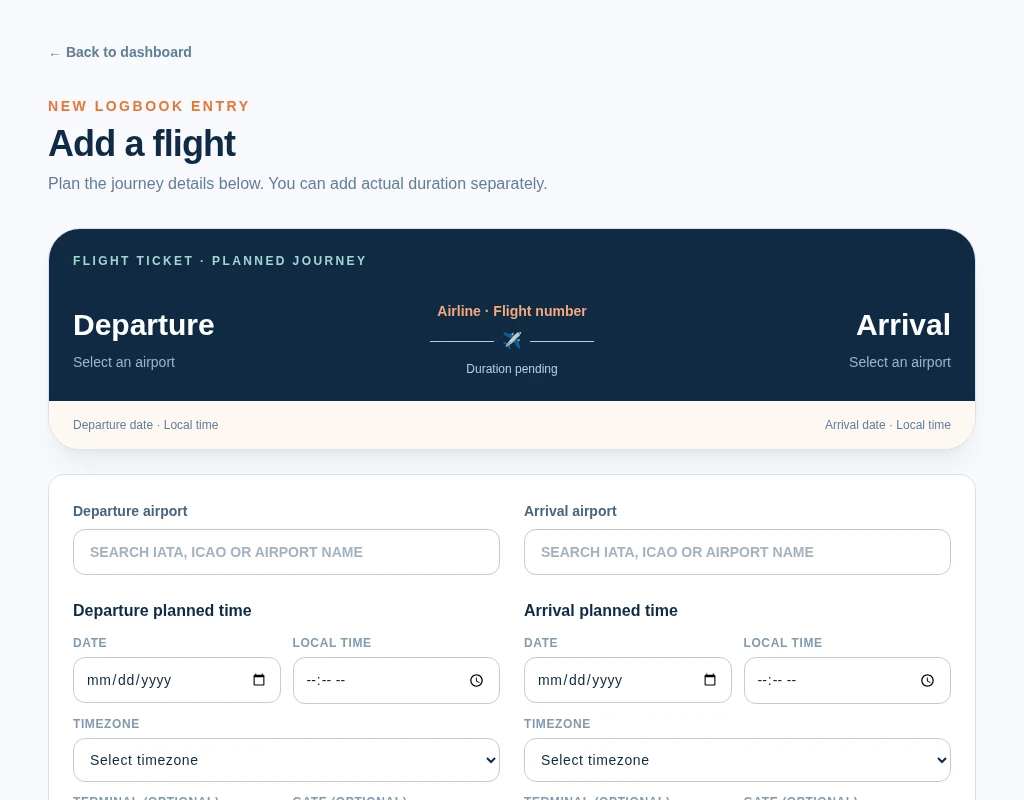
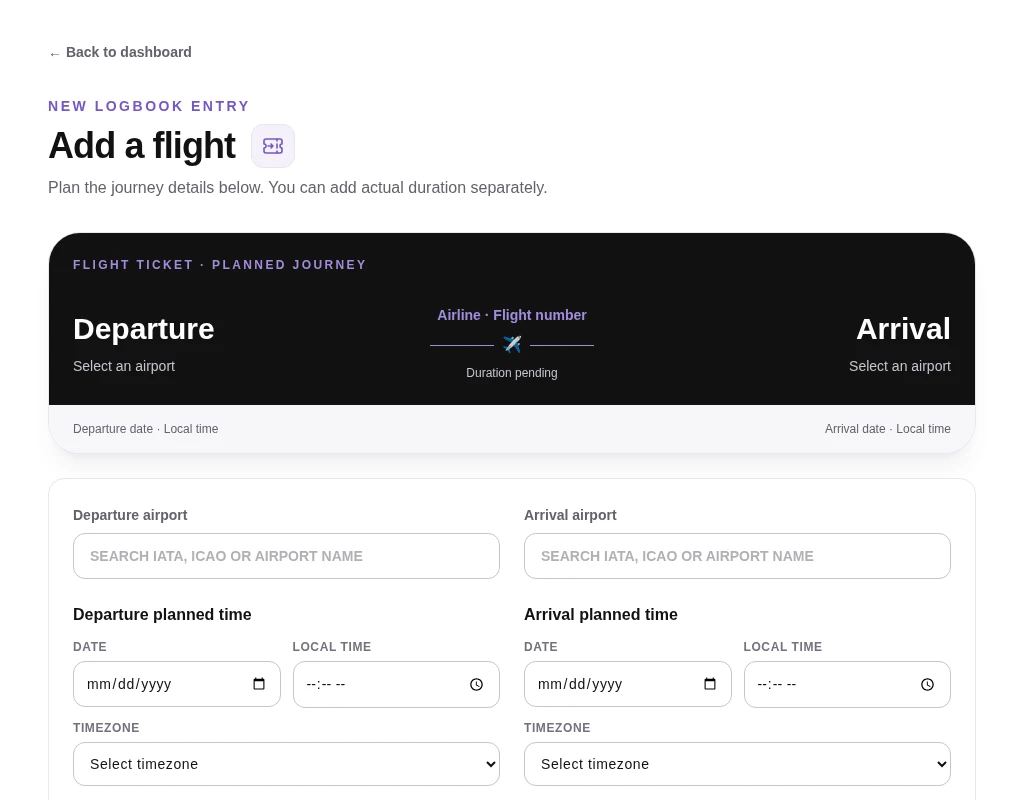
Polish landing spacing and align flight form with purple theme

diff --git a/components/flight-form.tsx b/components/flight-form.tsx
@@ -20,11 +20,11 @@ export function FlightForm({ initialData }: { initialData?: FlightInitialData })
   const chooseAirport = (side: Side, airport: Airport) => setSide(side, { airport: airport.iata, timezone: airport.timezone });
   const getOptions = (value: string) => searchAirports(value).slice(0, 6);
   async function submit(event: React.FormEvent) { event.preventDefault(); setError(""); if (!selectedDeparture || !selectedArrival) { setError("Choose a departure and arrival airport from the verified list."); return; } const depUtc = getScheduledFlightTime(departure.date, departure.time, departure.timezone); const arrUtc = getScheduledFlightTime(arrival.date, arrival.time, arrival.timezone); if (duration.error || !depUtc.iso || !arrUtc.iso) { setError(duration.error ?? "Check the planned date and time values."); return; } setSaving(true); const input = { departureAirportIata: selectedDeparture.iata, departureAirportIcao: selectedDeparture.icao, departureAirportName: selectedDeparture.name, departureCountryCode: selectedDeparture.countryCode, departureDate: departure.date, departureTime: departure.time, departureTimezone: departure.timezone, departureTerminal: departure.terminal, departureGate: departure.gate, departureUtc: depUtc.iso, arrivalAirportIata: selectedArrival.iata, arrivalAirportIcao: selectedArrival.icao, arrivalAirportName: selectedArrival.name, arrivalCountryCode: selectedArrival.countryCode, arrivalDate: arrival.date, arrivalTime: arrival.time, arrivalTimezone: arrival.timezone, arrivalTerminal: arrival.terminal, arrivalGate: arrival.gate, arrivalUtc: arrUtc.iso, airline, flightNumber, aircraftType, registration, notes, scheduledDurationMinutes: duration.minutes, actualDurationMinutes: actualHours || actualMinutes ? Number(actualHours || 0) * 60 + Number(actualMinutes || 0) : null }; const result = initialData?.id ? await updateFlight(initialData.id, input) : await createFlight(input); setSaving(false); if (result?.error) setError(result.error); }
-  return <form onSubmit={submit} className="space-y-6"><TicketPreview departure={selectedDeparture} arrival={selectedArrival} departureState={departure} arrivalState={arrival} airline={airline} flightNumber={flightNumber} duration={duration.minutes} /><section className="rounded-2xl border border-[#d9e2ec] bg-white p-6"><div className="grid gap-6 md:grid-cols-2"><AirportField label="Departure airport" value={departure.airport} options={getOptions(departure.airport)} onChange={(value) => setSide("departure", { airport: value })} onSelect={(airport) => chooseAirport("departure", airport)} selected={selectedDeparture} /><AirportField label="Arrival airport" value={arrival.airport} options={getOptions(arrival.airport)} onChange={(value) => setSide("arrival", { airport: value })} onSelect={(airport) => chooseAirport("arrival", airport)} selected={selectedArrival} /></div><div className="mt-6 grid gap-6 md:grid-cols-2"><TimeFields label="Departure" state={departure} onChange={(patch) => setSide("departure", patch)} /><TimeFields label="Arrival" state={arrival} onChange={(patch) => setSide("arrival", patch)} /></div></section><section className="rounded-2xl border border-[#d9e2ec] bg-white p-6"><h2 className="text-xl font-bold text-[#102a43]">Flight details</h2><div className="mt-5 grid gap-5 sm:grid-cols-2"><Field label="Airline" value={airline} onChange={setAirline} placeholder="e.g. Air China" /><Field label="Flight number" value={flightNumber} onChange={setFlightNumber} placeholder="e.g. CA1234" /><Field label="Aircraft type (optional)" value={aircraftType} onChange={setAircraftType} placeholder="e.g. Boeing 737-800" /><Field label="Registration (optional)" value={registration} onChange={setRegistration} placeholder="e.g. B-2087" /></div><div className="mt-6 grid gap-5 sm:grid-cols-2"><div><label className="text-sm font-semibold text-[#486581]">Scheduled duration</label><div className="mt-1.5 rounded-xl bg-[#f7f9fc] px-4 py-3 text-[#102a43]">{duration.minutes == null ? "Calculated after times are valid" : `${Math.floor(duration.minutes / 60)}h ${duration.minutes % 60}m`}</div></div><div><label className="text-sm font-semibold text-[#486581]">Actual duration <span className="font-normal text-[#829ab1]">(optional)</span></label><div className="mt-1.5 flex gap-2"><input type="number" min="0" max="99" value={actualHours} onChange={(e) => setActualHours(e.target.value)} className="w-full rounded-xl border border-[#bcccdc] px-3 py-3" placeholder="Hours" /><input type="number" min="0" max="59" value={actualMinutes} onChange={(e) => setActualMinutes(e.target.value)} className="w-full rounded-xl border border-[#bcccdc] px-3 py-3" placeholder="Minutes" /></div></div></div><label className="mt-5 block text-sm font-semibold text-[#486581]">Notes<textarea value={notes} onChange={(e) => setNotes(e.target.value)} rows={4} className="mt-1.5 w-full rounded-xl border border-[#bcccdc] px-4 py-3 font-normal outline-none focus:border-[#168c82]" placeholder="Anything you want to remember…" /></label></section>{error && <p className="rounded-xl bg-[#fff0ed] p-4 text-sm text-[#b94a3d]">{error}</p>}<div className="flex justify-end"><button disabled={saving} className="rounded-full bg-[#e8753a] px-7 py-3.5 font-bold text-white shadow-lg shadow-orange-100 disabled:opacity-60">{saving ? "Saving flight…" : initialData?.id ? "Save changes →" : "Save flight →"}</button></div></form>;
+  return <form onSubmit={submit} className="space-y-6"><TicketPreview departure={selectedDeparture} arrival={selectedArrival} departureState={departure} arrivalState={arrival} airline={airline} flightNumber={flightNumber} duration={duration.minutes} /><section className="rounded-2xl border border-line bg-surface p-6"><div className="grid gap-6 md:grid-cols-2"><AirportField label="Departure airport" value={departure.airport} options={getOptions(departure.airport)} onChange={(value) => setSide("departure", { airport: value })} onSelect={(airport) => chooseAirport("departure", airport)} selected={selectedDeparture} /><AirportField label="Arrival airport" value={arrival.airport} options={getOptions(arrival.airport)} onChange={(value) => setSide("arrival", { airport: value })} onSelect={(airport) => chooseAirport("arrival", airport)} selected={selectedArrival} /></div><div className="mt-6 grid gap-6 md:grid-cols-2"><TimeFields label="Departure" state={departure} onChange={(patch) => setSide("departure", patch)} /><TimeFields label="Arrival" state={arrival} onChange={(patch) => setSide("arrival", patch)} /></div></section><section className="rounded-2xl border border-line bg-surface p-6"><h2 className="text-xl font-bold text-ink">Flight details</h2><div className="mt-5 grid gap-5 sm:grid-cols-2"><Field label="Airline" value={airline} onChange={setAirline} placeholder="e.g. Air China" /><Field label="Flight number" value={flightNumber} onChange={setFlightNumber} placeholder="e.g. CA1234" /><Field label="Aircraft type (optional)" value={aircraftType} onChange={setAircraftType} placeholder="e.g. Boeing 737-800" /><Field label="Registration (optional)" value={registration} onChange={setRegistration} placeholder="e.g. B-2087" /></div><div className="mt-6 grid gap-5 sm:grid-cols-2"><div><label className="text-sm font-semibold text-muted">Scheduled duration</label><div className="mt-1.5 rounded-xl bg-page px-4 py-3 text-ink">{duration.minutes == null ? "Calculated after times are valid" : `${Math.floor(duration.minutes / 60)}h ${duration.minutes % 60}m`}</div></div><div><label className="text-sm font-semibold text-muted">Actual duration <span className="font-normal text-subtle">(optional)</span></label><div className="mt-1.5 flex gap-2"><input type="number" min="0" max="99" value={actualHours} onChange={(e) => setActualHours(e.target.value)} className="min-w-0 w-full rounded-xl border border-line-strong bg-surface px-3 py-3 outline-none focus:border-brand focus:ring-2 focus:ring-brand/15" placeholder="Hours" /><input type="number" min="0" max="59" value={actualMinutes} onChange={(e) => setActualMinutes(e.target.value)} className="min-w-0 w-full rounded-xl border border-line-strong bg-surface px-3 py-3 outline-none focus:border-brand focus:ring-2 focus:ring-brand/15" placeholder="Minutes" /></div></div></div><label className="mt-5 block text-sm font-semibold text-muted">Notes<textarea value={notes} onChange={(e) => setNotes(e.target.value)} rows={4} className="mt-1.5 w-full rounded-xl border border-line-strong px-4 py-3 font-normal outline-none focus:border-brand focus:ring-2 focus:ring-brand/15" placeholder="Anything you want to remember…" /></label></section>{error && <p className="rounded-xl bg-danger-bg p-4 text-sm text-danger-fg">{error}</p>}<div className="flex justify-end"><button disabled={saving} className="rounded-full bg-brand px-7 py-3.5 font-bold text-on-brand shadow-lg shadow-brand/10 transition hover:bg-brand-hover focus-visible:outline-2 focus-visible:outline-offset-4 focus-visible:outline-brand disabled:cursor-wait disabled:opacity-60">{saving ? "Saving flight…" : initialData?.id ? "Save changes →" : "Save flight →"}</button></div></form>;
 }
 
-function AirportField({ label, value, options, selected, onChange, onSelect }: { label: string; value: string; options: Airport[]; selected?: Airport; onChange: (value: string) => void; onSelect: (airport: Airport) => void }) { return <div className="relative"><label className="text-sm font-semibold text-[#486581]">{label}<input required value={value} onChange={(e) => onChange(e.target.value.toUpperCase())} className="mt-1.5 w-full rounded-xl border border-[#bcccdc] px-4 py-3 uppercase outline-none focus:border-[#168c82]" placeholder="Search IATA, ICAO or airport name" />{value && !selected && <div className="absolute left-0 right-0 top-[74px] z-10 rounded-xl border border-[#d9e2ec] bg-white p-1 shadow-xl">{options.map((airport) => <button type="button" key={airport.iata} onClick={() => onSelect(airport)} className="block w-full rounded-lg px-3 py-2 text-left text-sm hover:bg-[#f7f9fc]"><CountryFlag code={airport.countryCode} /> {airport.iata} · {airport.name}</button>)}</div>}</label>{selected && <p className="mt-2 text-xs text-[#627d98]"><CountryFlag code={selected.countryCode} /> {selected.name} · {selected.iata} · {selected.icao} · {selected.timezone}</p>}</div>; }
-function TimeFields({ label, state, onChange }: { label: string; state: FormState; onChange: (patch: Partial<FormState>) => void }) { return <div><h3 className="font-bold text-[#102a43]">{label} planned time</h3><div className="mt-3 grid grid-cols-2 gap-3"><Field label="Date" value={state.date} onChange={(value) => onChange({ date: value })} type="date" /><Field label="Local time" value={state.time} onChange={(value) => onChange({ time: value })} type="time" /></div><label className="mt-3 block text-xs font-bold uppercase tracking-wider text-[#829ab1]">Timezone<select required value={state.timezone} onChange={(e) => onChange({ timezone: e.target.value })} className="mt-1.5 w-full rounded-xl border border-[#bcccdc] bg-white px-3 py-3 text-sm font-normal text-[#102a43]"><option value="">Select timezone</option>{["Asia/Shanghai", "Asia/Tokyo", "Europe/London", "Europe/Paris", "America/New_York", "America/Los_Angeles"].map((zone) => <option key={zone}>{zone}</option>)}</select></label><div className="mt-3 grid grid-cols-2 gap-3"><Field label="Terminal (optional)" value={state.terminal} onChange={(value) => onChange({ terminal: value })} /><Field label="Gate (optional)" value={state.gate} onChange={(value) => onChange({ gate: value })} /></div></div>; }
-function Field({ label, value, onChange, type = "text", placeholder }: { label: string; value: string; onChange: (value: string) => void; type?: string; placeholder?: string }) { return <label className="block text-xs font-bold uppercase tracking-wider text-[#829ab1]">{label}<input type={type} value={value} onChange={(e) => onChange(e.target.value)} placeholder={placeholder} className="mt-1.5 w-full rounded-xl border border-[#bcccdc] px-3 py-3 text-sm font-normal text-[#102a43] outline-none focus:border-[#168c82]" /></label>; }
-function TicketPreview({ departure, arrival, departureState, arrivalState, airline, flightNumber, duration }: { departure?: Airport; arrival?: Airport; departureState: FormState; arrivalState: FormState; airline: string; flightNumber: string; duration: number | null }) { return <section className="overflow-hidden rounded-[2rem] border border-[#d9e2ec] bg-white shadow-xl shadow-[#102a43]/5"><div className="bg-[#102a43] p-6 text-white"><p className="text-xs font-bold uppercase tracking-[0.2em] text-[#9fd8d2]">Flight ticket · planned journey</p><div className="mt-8 grid items-center gap-5 md:grid-cols-[1fr_auto_1fr]"><AirportBlock airport={departure} fallback="Departure" /><div className="text-center"><p className="text-sm font-semibold text-[#f8a779]">{airline || "Airline"} · {flightNumber || "Flight number"}</p><div className="mt-2 flex items-center gap-2 text-[#9fd8d2]"><span className="h-px w-16 bg-[#9fd8d2]" /><span>✈</span><span className="h-px w-16 bg-[#9fd8d2]" /></div><p className="mt-2 text-xs text-[#bcccdc]">{duration == null ? "Duration pending" : `${Math.floor(duration / 60)}h ${duration % 60}m scheduled`}</p></div><AirportBlock airport={arrival} fallback="Arrival" align="right" /></div></div><div className="flex flex-wrap justify-between gap-3 bg-[#fff8f3] px-6 py-4 text-xs text-[#627d98]"><span>{departureState.date || "Departure date"} · {departureState.time || "Local time"}</span><span>{arrivalState.date || "Arrival date"} · {arrivalState.time || "Local time"}</span></div></section>; }
-function AirportBlock({ airport, fallback, align = "left" }: { airport?: Airport; fallback: string; align?: "left" | "right" }) { return <div className={align === "right" ? "text-right" : "text-left"}><p className="text-2xl font-bold leading-tight sm:text-3xl">{airport?.name || fallback}</p><p className="mt-2 text-sm text-[#9fb3c8]">{airport ? <><CountryFlag code={airport.countryCode} /> {airport.iata} · {airport.icao}</> : "Select an airport"}</p></div>; }
+function AirportField({ label, value, options, selected, onChange, onSelect }: { label: string; value: string; options: Airport[]; selected?: Airport; onChange: (value: string) => void; onSelect: (airport: Airport) => void }) { return <div className="relative"><label className="text-sm font-semibold text-muted">{label}<input required value={value} onChange={(e) => onChange(e.target.value.toUpperCase())} className="mt-1.5 w-full rounded-xl border border-line-strong px-4 py-3 uppercase outline-none focus:border-brand focus:ring-2 focus:ring-brand/15" placeholder="Search IATA, ICAO or airport name" />{value && !selected && <div className="absolute left-0 right-0 top-[74px] z-10 rounded-xl border border-line bg-surface p-1 shadow-xl">{options.map((airport) => <button type="button" key={airport.iata} onClick={() => onSelect(airport)} className="block w-full rounded-lg px-3 py-2 text-left text-sm hover:bg-page"><CountryFlag code={airport.countryCode} /> {airport.iata} · {airport.name}</button>)}</div>}</label>{selected && <p className="mt-2 text-xs text-muted"><CountryFlag code={selected.countryCode} /> {selected.name} · {selected.iata} · {selected.icao} · {selected.timezone}</p>}</div>; }
+function TimeFields({ label, state, onChange }: { label: string; state: FormState; onChange: (patch: Partial<FormState>) => void }) { return <div><h3 className="font-bold text-ink">{label} planned time</h3><div className="mt-3 grid grid-cols-2 gap-3"><Field label="Date" value={state.date} onChange={(value) => onChange({ date: value })} type="date" /><Field label="Local time" value={state.time} onChange={(value) => onChange({ time: value })} type="time" /></div><label className="mt-3 block text-xs font-bold uppercase tracking-wider text-subtle">Timezone<select required value={state.timezone} onChange={(e) => onChange({ timezone: e.target.value })} className="mt-1.5 w-full rounded-xl border border-line-strong bg-surface px-3 py-3 text-sm font-normal text-ink"><option value="">Select timezone</option>{["Asia/Shanghai", "Asia/Tokyo", "Europe/London", "Europe/Paris", "America/New_York", "America/Los_Angeles"].map((zone) => <option key={zone}>{zone}</option>)}</select></label><div className="mt-3 grid grid-cols-2 gap-3"><Field label="Terminal (optional)" value={state.terminal} onChange={(value) => onChange({ terminal: value })} /><Field label="Gate (optional)" value={state.gate} onChange={(value) => onChange({ gate: value })} /></div></div>; }
+function Field({ label, value, onChange, type = "text", placeholder }: { label: string; value: string; onChange: (value: string) => void; type?: string; placeholder?: string }) { return <label className="block text-xs font-bold uppercase tracking-wider text-subtle">{label}<input type={type} value={value} onChange={(e) => onChange(e.target.value)} placeholder={placeholder} className="mt-1.5 w-full rounded-xl border border-line-strong px-3 py-3 text-sm font-normal text-ink outline-none focus:border-brand focus:ring-2 focus:ring-brand/15" /></label>; }
+function TicketPreview({ departure, arrival, departureState, arrivalState, airline, flightNumber, duration }: { departure?: Airport; arrival?: Airport; departureState: FormState; arrivalState: FormState; airline: string; flightNumber: string; duration: number | null }) { return <section className="overflow-hidden rounded-[2rem] border border-line bg-surface shadow-xl shadow-ink/5"><div className="bg-panel p-6 text-on-panel"><p className="text-xs font-bold uppercase tracking-[0.2em] text-panel-accent">Flight ticket · planned journey</p><div className="mt-8 grid items-center gap-5 md:grid-cols-[1fr_auto_1fr]"><AirportBlock airport={departure} fallback="Departure" /><div className="text-center"><p className="text-sm font-semibold text-panel-accent">{airline || "Airline"} · {flightNumber || "Flight number"}</p><div className="mt-2 flex items-center gap-2 text-panel-accent"><span className="h-px w-16 bg-panel-accent" /><span>✈</span><span className="h-px w-16 bg-panel-accent" /></div><p className="mt-2 text-xs text-panel-muted">{duration == null ? "Duration pending" : `${Math.floor(duration / 60)}h ${duration % 60}m scheduled`}</p></div><AirportBlock airport={arrival} fallback="Arrival" align="right" /></div></div><div className="flex flex-wrap justify-between gap-3 bg-surface-muted px-6 py-4 text-xs text-muted"><span>{departureState.date || "Departure date"} · {departureState.time || "Local time"}</span><span>{arrivalState.date || "Arrival date"} · {arrivalState.time || "Local time"}</span></div></section>; }
+function AirportBlock({ airport, fallback, align = "left" }: { airport?: Airport; fallback: string; align?: "left" | "right" }) { return <div className={align === "right" ? "text-right" : "text-left"}><p className="text-2xl font-bold leading-tight sm:text-3xl">{airport?.name || fallback}</p><p className="mt-2 text-sm text-panel-muted">{airport ? <><CountryFlag code={airport.countryCode} /> {airport.iata} · {airport.icao}</> : "Select an airport"}</p></div>; }

diff --git a/app/page.tsx b/app/page.tsx
@@ -63,23 +63,23 @@ export default async function HomePage() {
       <div className="mt-14 text-left sm:mt-16"><JourneyDemo /></div>
     </section>
 
-    <section id="features" aria-labelledby="features-title" className="mx-auto max-w-7xl scroll-mt-8 px-6 py-16 sm:py-24 lg:px-12">
+    <section id="features" aria-labelledby="features-title" className="mx-auto max-w-7xl scroll-mt-8 px-6 py-12 sm:py-16 lg:px-12">
       <h2 id="features-title" className="text-center text-3xl font-bold tracking-tight sm:text-4xl">Built Around Your Journeys</h2>
-      <p className="mx-auto mt-4 max-w-2xl text-center text-base leading-7 text-muted">From your first entry to your next discovery, make every journey part of your story.</p>
-      <div className="mt-10 grid auto-rows-fr gap-4 lg:grid-cols-3">{features.map(feature => <article key={feature.title} className="relative rounded-2xl border border-line bg-surface p-6 shadow-sm shadow-ink/5 transition hover:border-line-strong hover:shadow-md hover:shadow-ink/5">
+      <p className="mx-auto mt-2 max-w-2xl text-center text-base leading-7 text-muted">From your first entry to your next discovery, make every journey part of your story.</p>
+      <div className="mt-6 grid auto-rows-fr gap-4 lg:grid-cols-3">{features.map(feature => <article key={feature.title} className="relative rounded-2xl border border-line bg-surface p-6 shadow-sm shadow-ink/5 transition hover:border-line-strong hover:shadow-md hover:shadow-ink/5">
         <span className="inline-flex h-10 w-10 items-center justify-center rounded-xl bg-brand-soft text-brand"><svg aria-hidden="true" viewBox="0 0 24 24" className="h-5 w-5" fill="none" stroke="currentColor" strokeWidth="1.6" strokeLinecap="round" strokeLinejoin="round">{feature.icon}</svg></span>
-        <h3 className="mt-5 text-base font-bold leading-6">{feature.title}</h3>
-        <p className="mt-3 text-sm leading-6 text-muted">{feature.description}</p>
+        <h3 className="mt-3 text-base font-bold leading-6">{feature.title}</h3>
+        <p className="mt-2 text-sm leading-6 text-muted">{feature.description}</p>
         {feature.href ? <Link href={feature.href} aria-label={feature.title} className="absolute inset-0 rounded-2xl focus-visible:outline-2 focus-visible:outline-offset-4 focus-visible:outline-brand" /> : <UpcomingButton label={feature.title} className="absolute inset-0 cursor-pointer rounded-2xl focus-visible:outline-2 focus-visible:outline-offset-4 focus-visible:outline-brand" />}
       </article>)}</div>
     </section>
 
-    <section id="product-preview" aria-labelledby="preview-title" className="mx-auto max-w-7xl px-6 py-16 sm:py-24 lg:px-12">
+    <section id="product-preview" aria-labelledby="preview-title" className="mx-auto max-w-7xl px-6 py-12 sm:py-16 lg:px-12">
       <div className="mx-auto text-center">
         <h2 id="preview-title" className="text-3xl font-bold tracking-tight sm:text-4xl">Your Flights. All in One Place</h2>
-        <p className="mx-auto mt-4 text-base leading-7 text-muted lg:whitespace-nowrap">A clearer way to organize your journeys, revisit past flights, and explore your flight history.</p>
+        <p className="mx-auto mt-2 text-base leading-7 text-muted lg:whitespace-nowrap">A clearer way to organize your journeys, revisit past flights, and explore your flight history.</p>
       </div>
-      <figure data-product-preview className="mt-10 overflow-hidden rounded-2xl border border-line bg-surface shadow-sm shadow-ink/5">
+      <figure data-product-preview className="mt-6 overflow-hidden rounded-2xl border border-line bg-surface shadow-sm shadow-ink/5">
         <Image src="/images/add-flight-preview.webp" alt="Actual Add Flight page showing the flight ticket preview and fields for departure, arrival, planned local times and timezones." width={1024} height={800} sizes="(min-width: 1280px) 1184px, 100vw" className="h-auto w-full" />
         <figcaption className="border-t border-line px-5 py-3 text-center text-xs leading-5 text-muted">Add Flight · Actual product interface, shown with an empty form</figcaption>
       </figure>

diff --git a/components/roadmap-cards.tsx b/components/roadmap-cards.tsx
@@ -26,9 +26,9 @@ export function RoadmapCard({ item, mode = "detailed" }: { item: RoadmapItem; mo
 
 export function RoadmapSummary({ items, failed, copy = landingDefaults }: { items: RoadmapItem[]; failed: boolean; copy?: LandingCopy }) {
   const groups = landingRoadmapGroups(items);
-  return <section id="roadmap" className="border-y border-line bg-page py-16 sm:py-24"><div className="mx-auto max-w-7xl px-6 lg:px-12">
-    <div className="text-center"><h2 className="whitespace-pre-line text-3xl font-bold tracking-tight sm:text-4xl">{copy["landing.roadmap.title"].replace(/[.。]+\s*$/, "")}</h2><p className="mx-auto mt-4 max-w-2xl whitespace-pre-line text-base leading-7 text-muted">{copy["landing.roadmap.description"]}</p><Link href="/roadmap" className="mt-4 inline-block whitespace-pre-line rounded-lg py-1 text-sm font-semibold text-brand hover:underline focus-visible:outline-2 focus-visible:outline-offset-4 focus-visible:outline-brand">{copy["landing.roadmap.link_label"]} <span aria-hidden="true">→</span></Link></div>
-    {failed ? <p role="alert" className="mt-6 rounded-xl border border-danger-line bg-surface p-4 text-sm text-danger-fg">The roadmap is temporarily unavailable. Please try again later.</p> : <div className="mt-7 space-y-6">{groups.map(group => <section key={group.status} aria-labelledby={`home-roadmap-${group.status}`}><h3 id={`home-roadmap-${group.status}`} className="mb-3 text-sm font-semibold text-muted">{statusLabels[group.status]}</h3>{group.items.length ? <div className="grid auto-rows-fr gap-4 sm:grid-cols-2 lg:grid-cols-4">{group.items.map(item => <RoadmapCard key={item.id} item={item} mode="compact" />)}</div> : <p className="rounded-xl border border-dashed border-line px-4 py-3 text-sm text-muted">No published {statusLabels[group.status].toLowerCase()} items yet.</p>}</section>)}</div>}
+  return <section id="roadmap" className="border-y border-line bg-page py-12 sm:py-16"><div className="mx-auto max-w-7xl px-6 lg:px-12">
+    <div className="text-center"><h2 className="whitespace-pre-line text-3xl font-bold tracking-tight sm:text-4xl">{copy["landing.roadmap.title"].replace(/[.。]+\s*$/, "")}</h2><p className="mx-auto mt-2 max-w-2xl whitespace-pre-line text-base leading-7 text-muted">{copy["landing.roadmap.description"]}</p><Link href="/roadmap" className="mt-4 inline-block whitespace-pre-line rounded-lg py-1 text-sm font-semibold text-brand hover:underline focus-visible:outline-2 focus-visible:outline-offset-4 focus-visible:outline-brand">{copy["landing.roadmap.link_label"]} <span aria-hidden="true">→</span></Link></div>
+    {failed ? <p role="alert" className="mt-6 rounded-xl border border-danger-line bg-surface p-4 text-sm text-danger-fg">The roadmap is temporarily unavailable. Please try again later.</p> : <div className="mt-6 space-y-6">{groups.map(group => <section key={group.status} aria-labelledby={`home-roadmap-${group.status}`}><h3 id={`home-roadmap-${group.status}`} className="mb-3 text-sm font-semibold text-muted">{statusLabels[group.status]}</h3>{group.items.length ? <div className="grid auto-rows-fr gap-4 sm:grid-cols-2 lg:grid-cols-4">{group.items.map(item => <RoadmapCard key={item.id} item={item} mode="compact" />)}</div> : <p className="rounded-xl border border-dashed border-line px-4 py-3 text-sm text-muted">No published {statusLabels[group.status].toLowerCase()} items yet.</p>}</section>)}</div>}
     <div className="mt-10 flex justify-center"><LogbookLink /></div>
   </div></section>;
 }

diff --git a/components/journey-demo.tsx b/components/journey-demo.tsx
@@ -1,9 +1,9 @@
 export function JourneyDemo() {
   return <figure aria-label="Product demo of an illustrative flight from Beijing to New York, not a real user record" className="mx-auto w-full max-w-3xl overflow-hidden rounded-2xl border border-line bg-surface shadow-sm shadow-ink/5">
-    <div className="flex flex-wrap items-center justify-between gap-3 border-b border-line px-5 py-4 sm:px-7"><span className="text-xs font-semibold uppercase tracking-[0.12em] text-muted">A journey, captured</span><span className="rounded-full border border-line px-2.5 py-1 text-[11px] font-semibold text-brand">Product demo</span></div>
+    <div className="flex flex-wrap items-center justify-between gap-3 border-b border-line px-5 py-4 sm:px-7"><span className="text-xs font-semibold uppercase tracking-[0.12em] text-muted">A journey, captured</span></div>
     <div className="px-5 py-6 sm:px-7 sm:py-7">
       <svg aria-hidden="true" viewBox="0 0 500 60" className="mx-auto mb-4 w-full max-w-lg text-brand" fill="none"><path d="M25 45 Q250 -25 475 45" stroke="currentColor" strokeWidth="1.5" strokeDasharray="4 6" /><circle cx="25" cy="45" r="3" fill="currentColor" /><circle cx="475" cy="45" r="3" fill="currentColor" /><circle cx="250" cy="10" r="14" fill="var(--surface)" /><path transform="translate(238 -2)" d="M22 12c0-1-2-2-4-2h-4L8 3H5l3 7H4L2 7H1l1 5-1 5h1l2-3h4l-3 7h3l6-7h4c2 0 4-1 4-2Z" fill="currentColor" stroke="currentColor" strokeWidth=".6" strokeLinejoin="round" /></svg>
-      <div className="grid grid-cols-[minmax(0,1fr)_auto_minmax(0,1fr)] items-center gap-3 sm:gap-6"><div><p className="text-[11px] font-medium uppercase tracking-wider text-muted">Departure</p><p className="mt-2 break-words text-base font-bold tracking-tight sm:text-2xl">Beijing</p><p className="mt-2 text-xs text-muted">ZBAA</p></div><span aria-hidden="true" className="text-xl text-brand">→</span><div className="text-right"><p className="text-[11px] font-medium uppercase tracking-wider text-muted">Arrival</p><p className="mt-2 break-words text-base font-bold tracking-tight sm:text-2xl">New York</p><p className="mt-2 text-xs text-muted">KJFK</p></div></div>
+      <div className="grid grid-cols-[minmax(0,1fr)_auto_minmax(0,1fr)] items-center gap-3 sm:gap-6"><div><p className="text-[11px] font-medium uppercase tracking-wider text-muted">Departure</p><p className="mt-2 break-words text-base font-bold tracking-tight sm:text-2xl">Beijing</p><p className="mt-2 text-xs text-muted">ZBAA</p></div><div className="w-24 text-center sm:w-44"><p className="mb-2 text-[10px] font-semibold tracking-wide text-brand sm:text-xs">CA981 · Example flight</p><svg aria-hidden="true" viewBox="0 0 180 20" className="h-5 w-full text-brand" fill="none"><path d="M2 10h174m-8-7 8 7-8 7" stroke="currentColor" strokeWidth="1.5" strokeLinecap="round" strokeLinejoin="round" /></svg></div><div className="text-right"><p className="text-[11px] font-medium uppercase tracking-wider text-muted">Arrival</p><p className="mt-2 break-words text-base font-bold tracking-tight sm:text-2xl">New York</p><p className="mt-2 text-xs text-muted">KJFK</p></div></div>
     </div>
     <figcaption className="border-t border-line px-5 py-3 text-xs leading-5 text-muted sm:px-7">Illustrative product preview. An example route, not a user’s flight or live flight data.</figcaption>
   </figure>;

diff --git a/app/flights/new/page.tsx b/app/flights/new/page.tsx
@@ -5,4 +5,4 @@ import { UserMenu } from "@/components/user-menu";
 import { FlightForm } from "@/components/flight-form";
 import { createClient } from "@/lib/supabase/server";
 
-export default async function NewFlightPage() { const supabase = await createClient(); const { data: { user } } = await supabase.auth.getUser(); if (!user) redirect("/auth?next=/flights/new"); const name = user.email?.split("@")[0] || "Pilot"; return <div className="min-h-screen bg-[#f7f9fc]"><header className="flex items-center justify-between border-b border-[#d9e2ec] bg-white px-6 py-5 lg:px-12"><Brand /><UserMenu email={user.email ?? ""} initials={name.slice(0, 2).toUpperCase()} /></header><main className="mx-auto max-w-5xl px-6 py-10 lg:px-12"><Link href="/dashboard" className="text-sm font-semibold text-[#627d98]">← Back to dashboard</Link><div className="mt-8 mb-8"><p className="text-sm font-bold uppercase tracking-[0.18em] text-[#e8753a]">New logbook entry</p><h1 className="mt-2 text-4xl font-bold tracking-tight text-[#102a43]">Add a flight</h1><p className="mt-2 text-[#627d98]">Plan the journey details below. You can add actual duration separately.</p></div><FlightForm /></main></div>; }
+export default async function NewFlightPage() { const supabase = await createClient(); const { data: { user } } = await supabase.auth.getUser(); if (!user) redirect("/auth?next=/flights/new"); const name = user.email?.split("@")[0] || "Pilot"; return <div className="min-h-screen bg-page"><header className="flex items-center justify-between border-b border-line bg-surface px-6 py-5 lg:px-12"><Brand /><UserMenu email={user.email ?? ""} initials={name.slice(0, 2).toUpperCase()} /></header><main className="mx-auto max-w-5xl px-6 py-10 lg:px-12"><Link href="/dashboard" className="text-sm font-semibold text-muted">← Back to dashboard</Link><div className="mt-8 mb-8"><p className="text-sm font-bold uppercase tracking-[0.18em] text-brand">New logbook entry</p><div className="mt-2 flex items-center gap-4"><h1 className="text-4xl font-bold tracking-tight text-ink">Add a flight</h1><span aria-hidden="true" className="inline-flex h-11 w-11 shrink-0 items-center justify-center rounded-xl border border-line bg-brand-soft text-brand"><svg viewBox="0 0 24 24" className="h-6 w-6" fill="none" stroke="currentColor" strokeWidth="1.6" strokeLinecap="round" strokeLinejoin="round"><path d="M3 7a2 2 0 0 1 2-2h14a2 2 0 0 1 2 2v3a2 2 0 0 0 0 4v3a2 2 0 0 1-2 2H5a2 2 0 0 1-2-2v-3a2 2 0 0 0 0-4Z" /><path d="M16 5v2m0 3v4m0 3v2M7 12h5m-2-2 2 2-2 2" /></svg></span></div><p className="mt-2 text-muted">Plan the journey details below. You can add actual duration separately.</p></div><FlightForm /></main></div>; }
